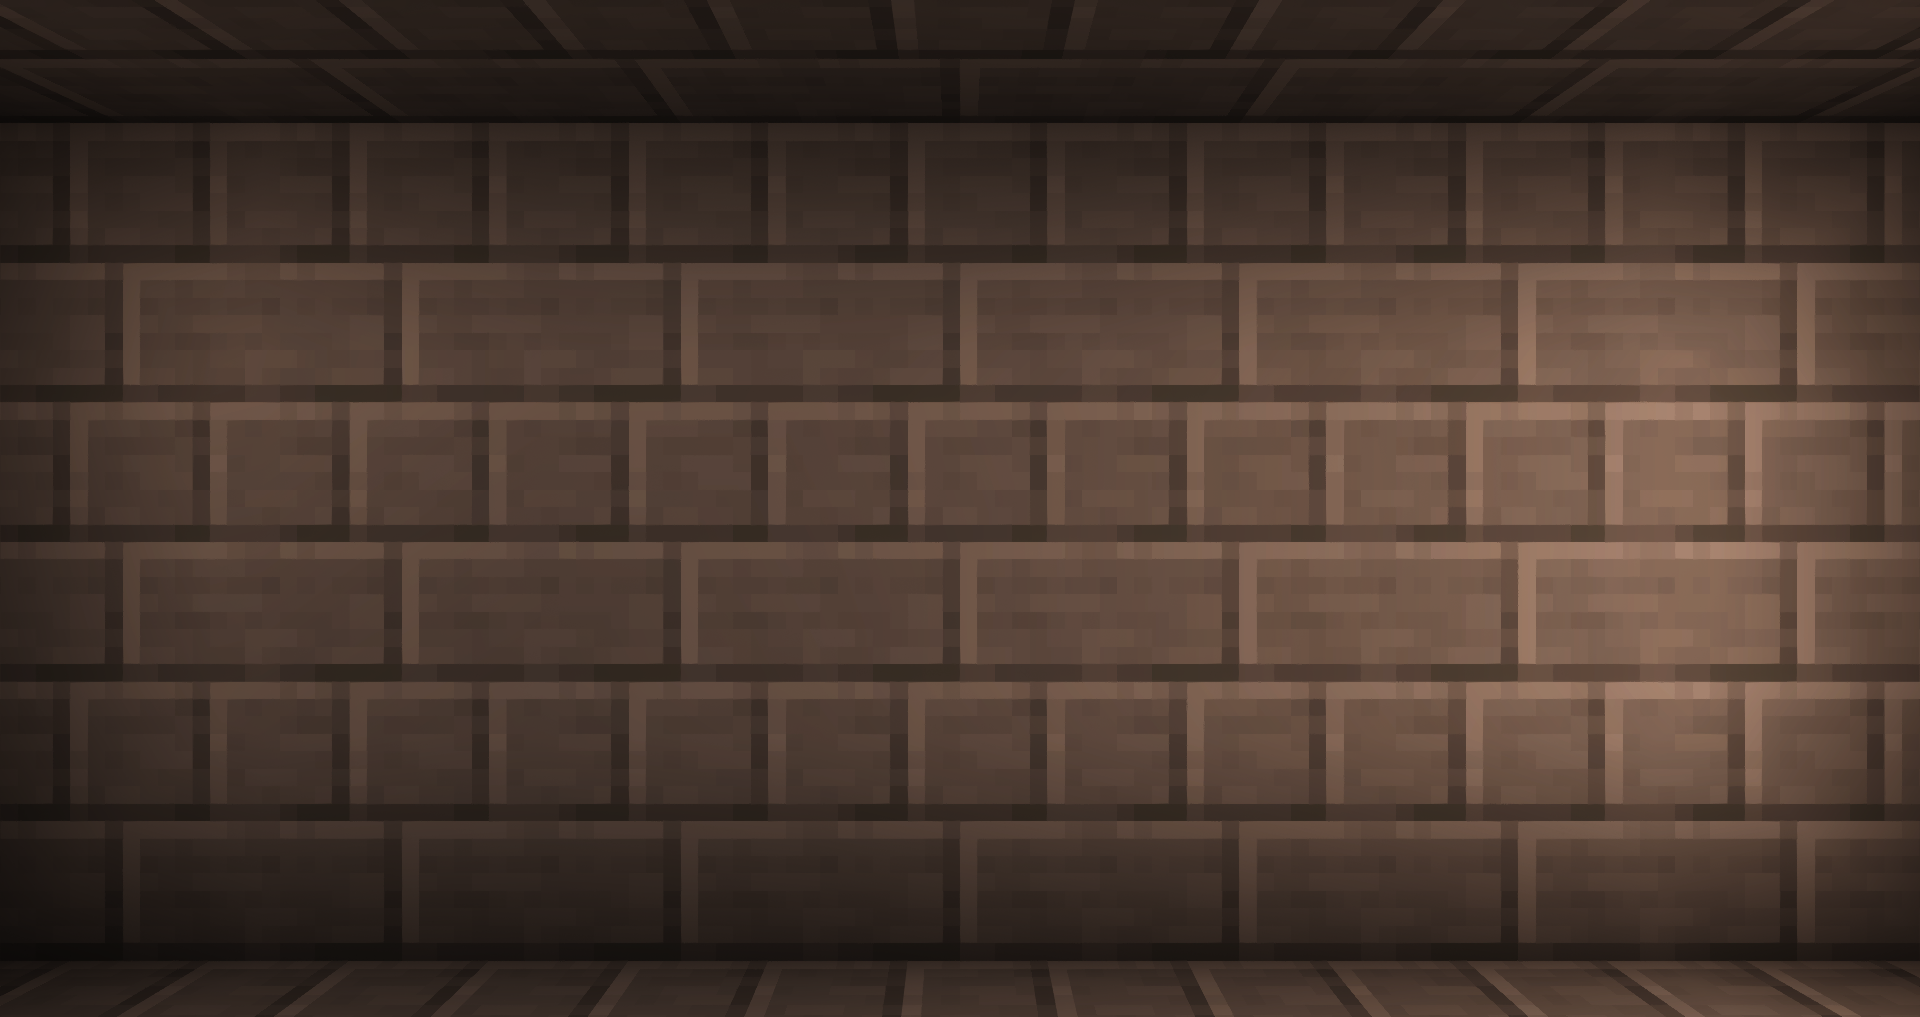
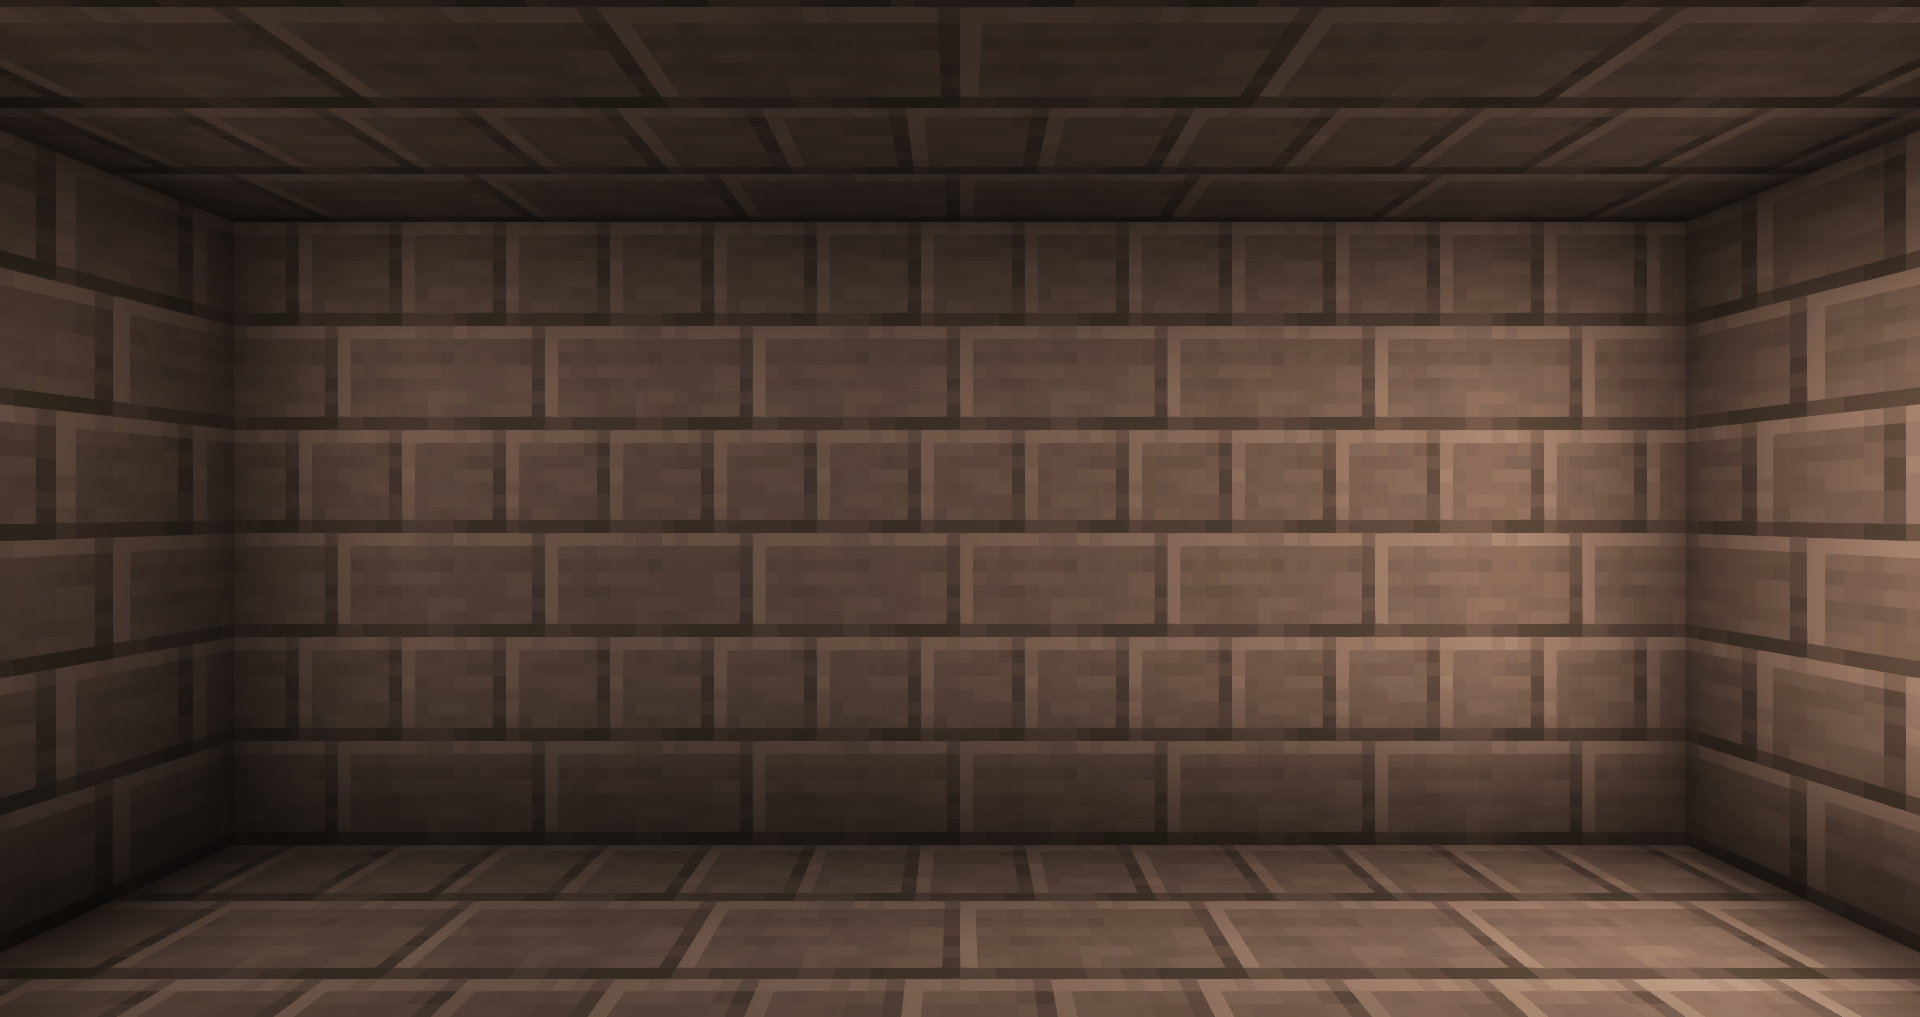
Fully Walkable game
Added additional image files to construct the game space. Added logic required to alternate states and maintain their changed state.

Need to add logic for locking certain doors dependent on other states AND make certain switches not able to be toggled back

diff --git a/index.html b/index.html
@@ -101,9 +101,25 @@ document.body.onkeydown = function(e){
 function key_input(what_key){
     for(i=0; i< game_data['states'][current_state]['next_state'].length; i++){
         if( what_key == game_data['states'][current_state]['next_state'][i]['key_input']) {
-            if ( typeof game_data['states'][current_state]['next_state'][i]['state_name'] == "string"){
-               next_state(game_data['states'][current_state]['next_state'][i]['state_name'])
-            }
+			if (what_key == space) {
+				if (game_data['states'][current_state]['bk_img'].endsWith("A.png")){
+					game_data['states'][current_state]['bk_img'] = game_data['states'][current_state]['bk_img'].slice(0, -5) + "B.png";
+					console.log(game_data['states'][current_state]['bk_img']);
+				} else if (game_data['states'][current_state]['bk_img'].endsWith("B.png")) {
+					game_data['states'][current_state]['bk_img'] = game_data['states'][current_state]['bk_img'].slice(0, -5) + "A.png";
+					console.log(game_data['states'][current_state]['bk_img']);
+				}
+				game_data['states'][current_state]['bk_img_loaded'] = new Image();
+				game_data['states'][current_state]['bk_img_loaded'].src = game_data['states'][current_state]['bk_img'];
+				console.log("Loading: " + current_state, game_data['states'][current_state]['bk_img']);
+				game_data['states'][current_state]['bk_img_loaded'].onload = function() {
+					draw(game_data['states'][current_state]['bk_img_loaded']);
+				};
+			} else {
+				if ( typeof game_data['states'][current_state]['next_state'][i]['state_name'] == "string"){
+				next_state(game_data['states'][current_state]['next_state'][i]['state_name'])
+				}
+			}
         } 
     }
 
